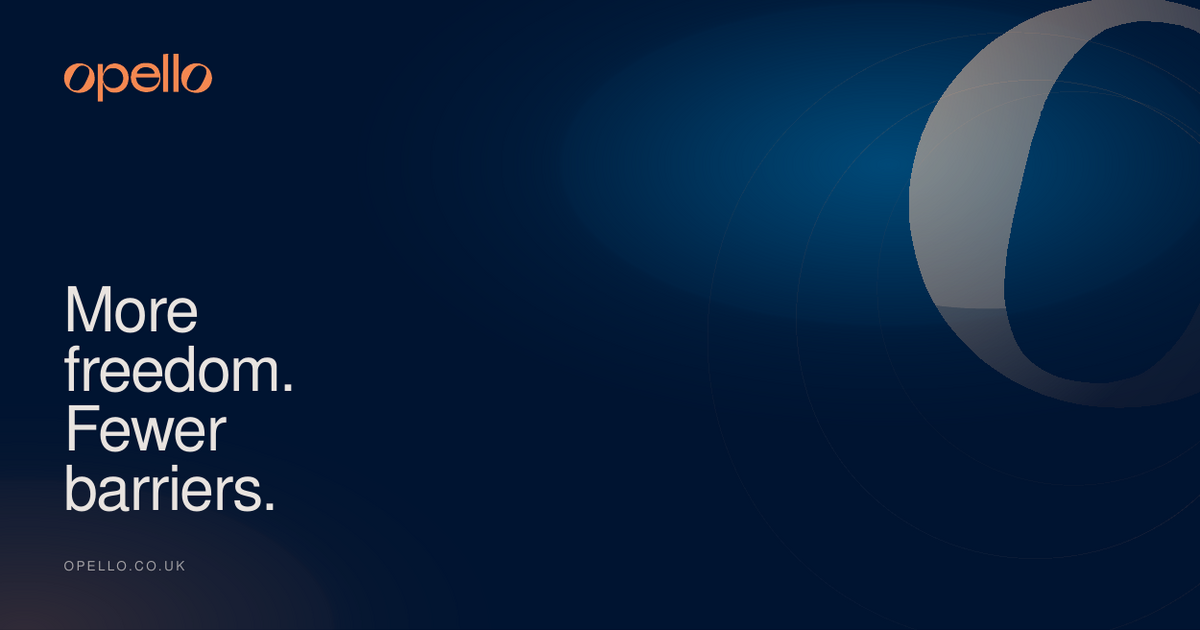
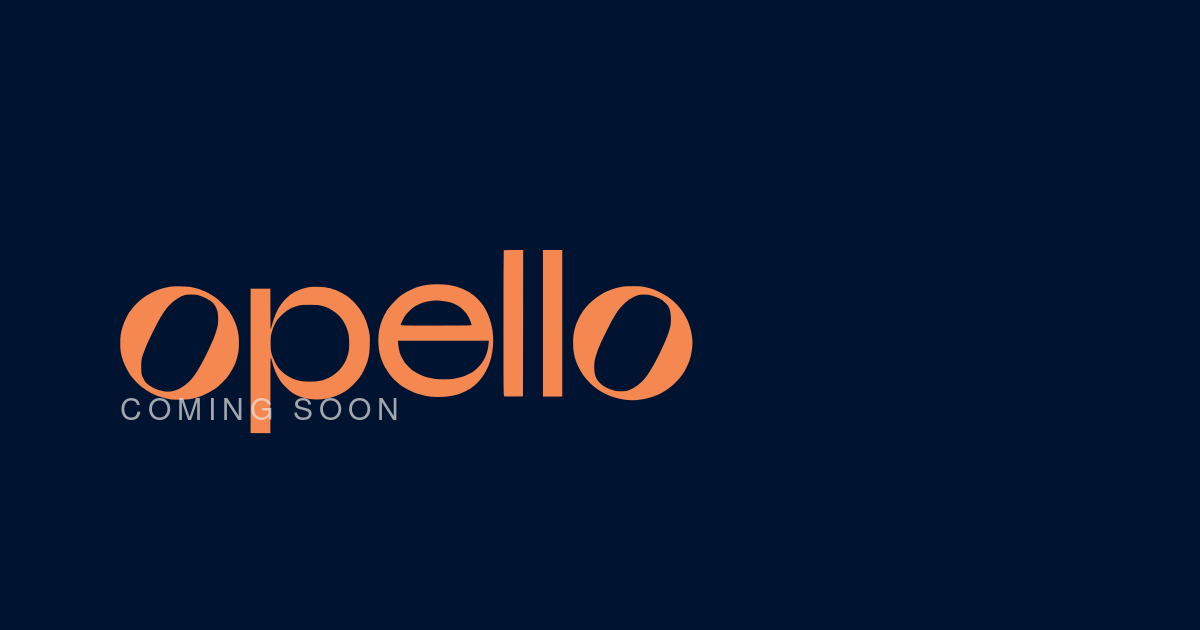
Remove promotional wording from the live coming-soon page; neutral copy only
🪂 Generated with [Skydive](https://skydive.com)

diff --git a/src/routes/+page.svelte b/src/routes/+page.svelte
@@ -4,9 +4,9 @@
 	import SignupForm from '#lib/components/SignupForm.svelte';
 	import { resolve } from '$app/paths';
 
-	const title = 'Opello — More freedom. Fewer barriers.';
+	const title = 'Opello — Coming soon';
 	const description =
-		'Opello is a cross-border money app for lives that span countries. From everyday payments to international transfers, more flexibility and control wherever life takes you. Coming soon.';
+		'Opello is coming soon. Sign up to hear when we launch.';
 	const url = 'https://opello.co.uk/';
 
 	const jsonLd = JSON.stringify({
@@ -15,9 +15,7 @@
 		name: 'Opello',
 		url,
 		logo: 'https://opello.co.uk/assets/opello-wordmark.svg',
-		slogan: 'Your own money, unlocked.',
-		description:
-			'A cross-border money app for people whose lives span countries. Financial freedom should have no borders.'
+		description: 'Opello is coming soon.'
 	});
 </script>
 
@@ -31,7 +29,7 @@
 	<meta property="og:type" content="website" />
 	<meta property="og:site_name" content="Opello" />
 	<meta property="og:title" content={title} />
-	<meta property="og:description" content="Financial freedom should have no borders. Opello is coming soon." />
+	<meta property="og:description" content="Opello is coming soon." />
 	<meta property="og:url" content={url} />
 	<meta property="og:image" content="https://opello.co.uk/assets/og.png" />
 	<meta property="og:image:width" content="1200" />
@@ -51,10 +49,9 @@
 	</header>
 
 	<div class="hero">
-		<h1>More freedom.<br />Fewer barriers.</h1>
+		<h1>Coming soon.</h1>
 		<p class="lede">
-			From everyday payments to international transfers, Opello gives you more flexibility and
-			control, wherever life takes you.
+			Opello is coming soon. Sign up and we'll let you know when we launch.
 		</p>
 		<SignupForm />
 	</div>
@@ -62,7 +59,7 @@
 	<footer>
 		<span>opello.co.uk</span>
 		<span class="foot-right">
-			<span>A cross-border money app</span>
+			<span>Opello Ltd</span>
 			<a href={resolve('/privacy')}>Privacy</a>
 		</span>
 	</footer>
